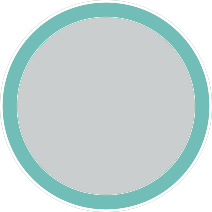
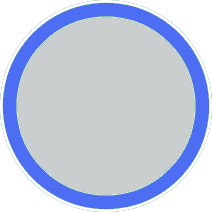
edit eneemy healthbar and edit UI img

Changed region(s): [[0.0, 0.0, 0.9906, 0.9906]]

diff --git a/Assets/Scripts/Player/PlayerMovement.cs b/Assets/Scripts/Player/PlayerMovement.cs
@@ -4,9 +4,9 @@ using UnityEngine;
 
 public class PlayerMovement : MonoBehaviour
 {
-    private AnimationController animationController;
-    private Rigidbody2D rb;
-    private Vector2 movement;
+    AnimationController animationController;
+    Rigidbody2D rb;
+    Vector2 movement;
 
     [SerializeField]
     Joystick joystick;
